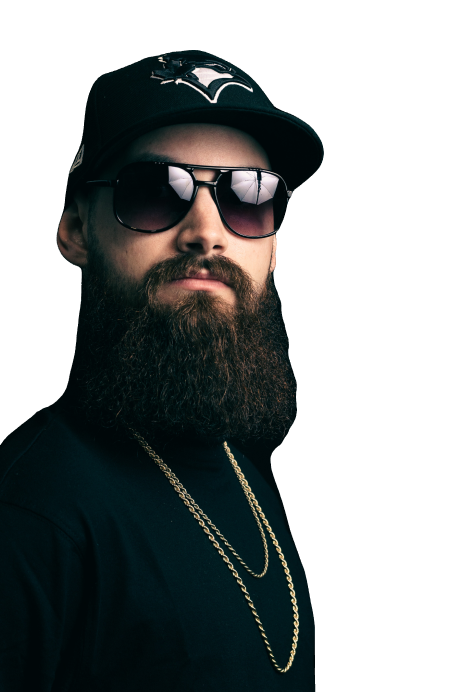
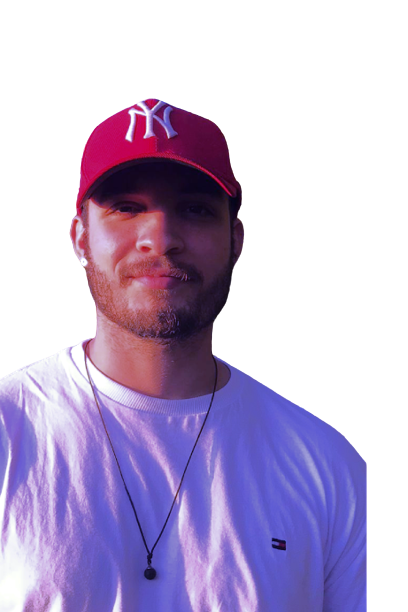
Patch 1.1
Add About me

diff --git a/src/components/About.js b/src/components/About.js
@@ -1,8 +1,124 @@
 import React from 'react';
+// countup
+import CountUp from 'react-countup';
+// intersection oberver hook
+import { useInView } from 'react-intersection-observer';
+//motion
+import { motion } from 'framer-motion';
+// variant
+import {fadeIn} from '../variants'
+
 
 const About = () => {
-  return <div className='section'
-  id='about'>About</div>;
+
+  const[ref, inView] = useInView({
+    threshold:0.5,
+  });
+  return (
+    <section className='section' id='about' ref={ref}>
+      <div className='
+      container
+      mx-auto'>
+        <div className='
+        flex
+        flex-col
+        gap-y-10
+        lg:flex-row
+        lg:items-center
+        lg:gap-x-20
+        lg:gap-y-0
+        h-screen'>
+          {/* Img */}
+          <motion.div 
+          variants={fadeIn('right',0.3)}
+          initial='hidden'
+          whileInView={'show'}
+          viewport={{once:false, amount:0.3}}
+          className='
+          flex-1
+          bg-about
+          bg-contain
+          bg-no-repeat
+          h-[640px]
+          mix-blend-lighten
+          bg-top'></motion.div>
+          {/* text */}
+          <motion.div 
+          variants={fadeIn('left',0.4)}
+          initial='hidden'
+          whileInView={'show'}
+          viewport={{once:false, amount:0.3}}className='flex-1'>
+            <h2 className='
+            h2
+            text-accent'>Aboute me.</h2>
+            <h3 className='
+            h3
+            mb-4'>I'm a Full-Stack Developer starting my carreer with a dream</h3>
+            <p className='mb-6'>
+              Lorem, ipsum dolor sit amet consectetur adipisicing elit. Dolore reprehenderit, nam fugit laudantium fugiat quae minima voluptas
+            </p>
+            {/* stats */}
+            <div className='
+            flex
+            gap-x-6
+            lg:gap-x-10
+            mb-12'>
+              <div>
+                <div className='
+                text-[40px]
+                font-tertiary
+                text-gradient
+                mb-2'>
+                  {/* upgrade with date time */}
+                  {
+                    inView ?
+                    <CountUp start={0} end={1} duration={3} /> : null}
+                </div>
+                <div className='
+                font-primary
+                text-sm
+                tracking-[2px]'>
+                  Years of <br/>
+                  Experience
+                </div>
+              </div>
+              <div>
+                <div className='
+                text-[40px]
+                font-tertiary
+                text-gradient
+                mb-2'>
+                  {/* upgrade with date time */}
+                  {
+                    inView ?
+                    <CountUp start={0} end={2} duration={3} /> : null}
+
+                </div>
+                <div className='
+                font-primary
+                text-sm
+                tracking-[2px]'>
+                  Projects <br/>
+                  completed
+                </div>
+              </div>
+            </div>
+            <div className='
+            flex
+            gap-x-8
+            items-center'>
+            <button className='
+            btn
+            btn-lg'>Contact Me</button>
+            <a href='#' className='
+            text-gradient
+            btn-link'>My Portfolio</a>
+            </div>
+          </motion.div>
+        </div>
+      </div>
+    </section>
+  )
 };
 
 export default About;

diff --git a/src/components/Banner.js b/src/components/Banner.js
@@ -1,8 +1,9 @@
 import React from 'react';
 //images
-import Image from '../assets/avatar.svg'
+import Image from '../assets/eu.png'
+//avatar.svg
 //icons
-import {FaGithub, FaYoutube, FaDribbble, FaGit} from 'react-icons/fa'
+import {FaGithub, FaWhatsapp, FaLinkedin} from 'react-icons/fa'
 // type animation
 import { TypeAnimation } from 'react-type-animation';
 // motion 
@@ -43,7 +44,7 @@ const Banner = () => {
             font-bold
             leading-[0.8]
             lg:text-[110px]'>
-              Ben <span>AIDEN</span>
+              Miguel <span>Amaral</span>
             </motion.h1>
               <motion.div 
               variants={fadeIn('up', 0.4)}
@@ -64,7 +65,7 @@ const Banner = () => {
                 <TypeAnimation sequence={[
                   'Developer', 2000,
                   'Designer', 2000,
-                  'Youtuber', 2000,
+                  {/*'Youtuber', 2000,*/}
                 ]}
                 speed={50}
                 className='
@@ -109,7 +110,12 @@ const Banner = () => {
                   </a>
               </motion.div>
               {/* socials */}
-              <div className='
+              <motion.div
+              variants={fadeIn('up', 0.6)}
+              initial='hidden' 
+              whileInView={'show'} 
+              viewport={{once: false, amount:0.8}} 
+              className='
               flex
               text-[20px]
               gap-x-6
@@ -118,26 +124,33 @@ const Banner = () => {
               lg:mx-0
               '>
                 <a href='#'>
-                  <FaYoutube/>
+                  <FaWhatsapp/>
                 </a>
                 <a href='#'>
                   <FaGithub/>
                 </a>
                 <a href='#'>
-                  <FaDribbble/>
+                  <FaLinkedin/>
                 </a>
-              </div>
+              </motion.div>
           </div>
           {/* image */}
-          <div className='
+          <motion.div
+          variants={fadeIn('down', 0.5)}
+          initial='hidden' 
+          whileInView={'show'} 
+         
+          className='
           hidden
           lg:flex
+          w-[600px]
+          h-[500px]
           flex-1
           max-w-[320px]
           lg:max-w-[482px]
           '>
             <img src={Image} alt='Image'  />
-          </div>
+          </motion.div>
         </div>
 
       </div>

diff --git a/src/components/Header.js b/src/components/Header.js
@@ -13,6 +13,7 @@ const Header = () => {
           {/**LOGO */}
           <a href='#'>
             <img src={Logo} alt='LOGO' /> 
+            {/* refazer logo */}
           </a>
           {/* Button*/}
           <button className='btn btn-sm'> Work with me</button>
